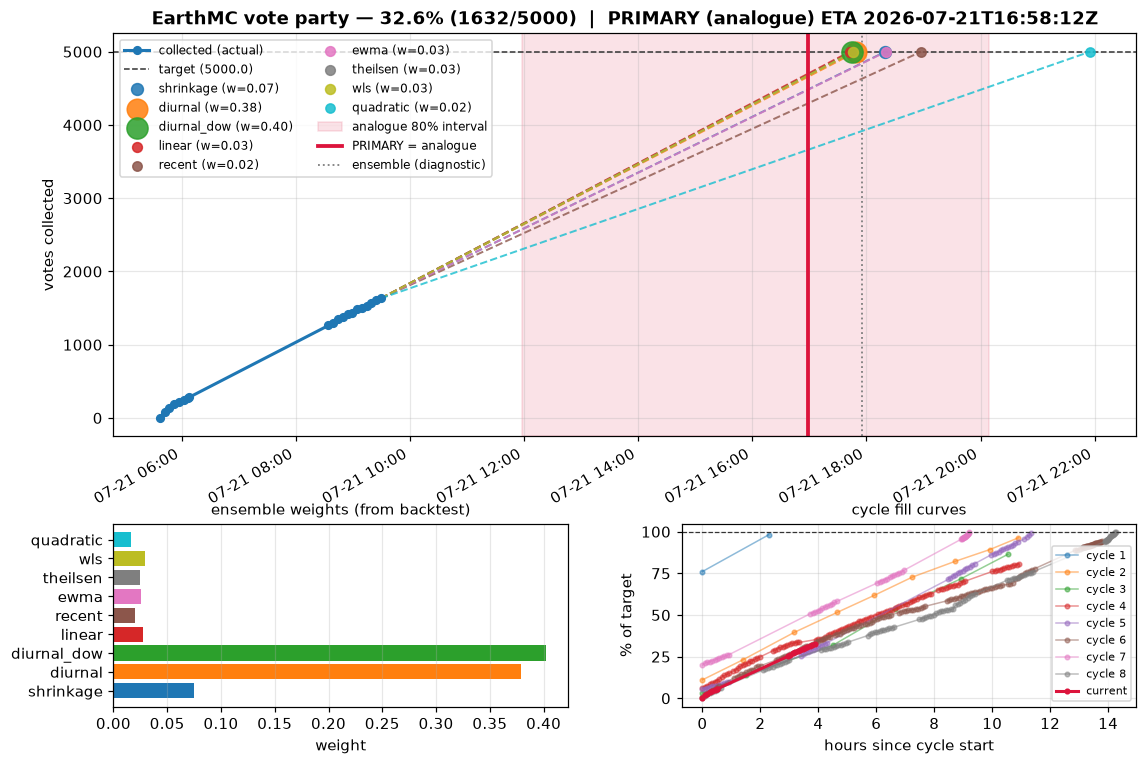
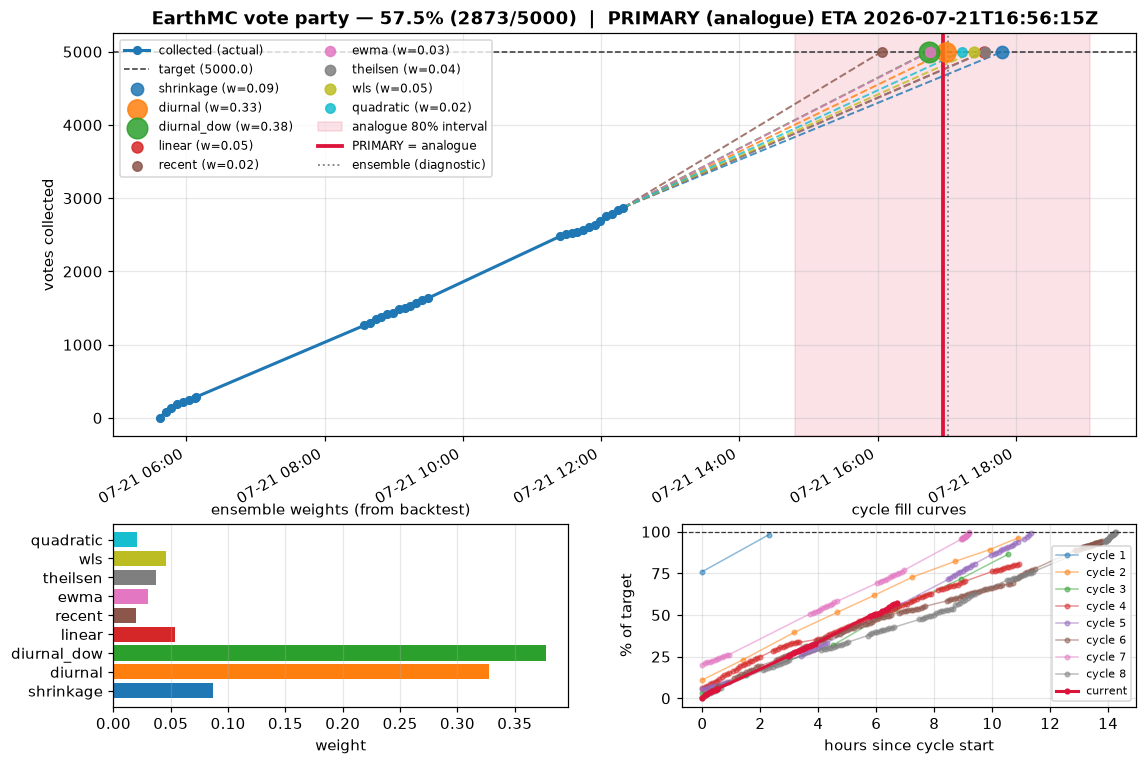
Regenerate outputs after analogue-for-both on latest data
Claude-Session: https://claude.ai/code/session_01DHytVvh2inT8mdobk2gRPH

diff --git a/data/PREDICTION.md b/data/PREDICTION.md
@@ -1,30 +1,30 @@
 # Vote Party Prediction
 
-_Generated 2026-07-21T09:29:19Z — recomputed every data update._
+_Generated 2026-07-21T12:19:18Z — recomputed every data update._
 
-**Progress:** 1632 / 5000.0 (32.6%) — 3368 remaining
-**Players online:** 411  |  **Cycle started:** 2026-07-21T05:37:06Z  |  **Data points this cycle:** 20
+**Progress:** 2873 / 5000.0 (57.5%) — 2127 remaining
+**Players online:** 494  |  **Cycle started:** 2026-07-21T05:37:06Z  |  **Data points this cycle:** 32
 
 ## 🎯 Prediction
 
-**Vote party fires ≈ `2026-07-21T16:58:12Z`**  (model: `analogue`)
-**80% window:** `2026-07-21T11:58:01Z` → `2026-07-21T20:08:23Z`  (90%: `2026-07-21T11:58:01Z` → `2026-07-21T20:44:30Z`)
+**Vote party fires ≈ `2026-07-21T16:56:15Z`**  (model: `analogue`)
+**80% window:** `2026-07-21T14:48:00Z` → `2026-07-21T19:04:10Z`  (90%: `2026-07-21T14:48:00Z` → `2026-07-21T19:19:02Z`)
 _Interval from the analogue curve-library (measured ~75% coverage OOS) over 8 cycles (3 tightly labeled). Wide early by design; tightens as the cycle fills._
 
-_Diagnostic — ensemble ETA (does **not** beat `analogue` out-of-sample): `2026-07-21T17:55:25Z`._
+_Diagnostic — ensemble ETA (does **not** beat `analogue` out-of-sample): `2026-07-21T17:00:45Z`._
 
 ## Individual models
 
 | Model | Predicted ETA | Weight | Backtest RMSE |
 |-------|---------------|--------|---------------|
-| diurnal_dow | 2026-07-21T17:44:19Z | 0.403 | 0.68005 |
-| diurnal | 2026-07-21T17:49:19Z | 0.379 | 0.70926 |
-| shrinkage | 2026-07-21T18:19:52Z | 0.074 | 1.53546 |
-| wls | 2026-07-21T17:46:19Z | 0.030 | 2.39366 |
-| linear | 2026-07-21T17:42:25Z | 0.027 | 2.47523 |
-| ewma | 2026-07-21T18:20:39Z | 0.026 | 2.59645 |
-| theilsen | 2026-07-21T17:46:09Z | 0.025 | 2.60587 |
-| recent | 2026-07-21T18:57:28Z | 0.020 | 3.00585 |
-| quadratic | 2026-07-21T21:54:59Z | 0.017 | 2.77109 |
+| diurnal_dow | 2026-07-21T16:44:18Z | 0.378 | 0.68005 |
+| diurnal | 2026-07-21T16:59:18Z | 0.328 | 0.70926 |
+| shrinkage | 2026-07-21T17:48:05Z | 0.087 | 1.53546 |
+| linear | 2026-07-21T17:32:14Z | 0.053 | 2.47523 |
+| wls | 2026-07-21T17:23:35Z | 0.046 | 2.39366 |
+| theilsen | 2026-07-21T17:33:07Z | 0.037 | 2.60587 |
+| ewma | 2026-07-21T16:45:06Z | 0.030 | 2.59645 |
+| quadratic | 2026-07-21T17:12:43Z | 0.021 | 2.77109 |
+| recent | 2026-07-21T16:03:22Z | 0.020 | 3.00585 |
 
 **Caveats:** weights are unstable at this sample size (dropping one cycle can swing the top weight by ±0.4), so the ensemble is a diagnostic only — the reported prediction is the single best model (`diurnal`), which beats the ensemble out-of-sample. Firing-time labels for loosely-sampled cycles are uncertain by tens of minutes and are excluded from the error estimate. See `prediction_track.png` for the honest out-of-sample record.
